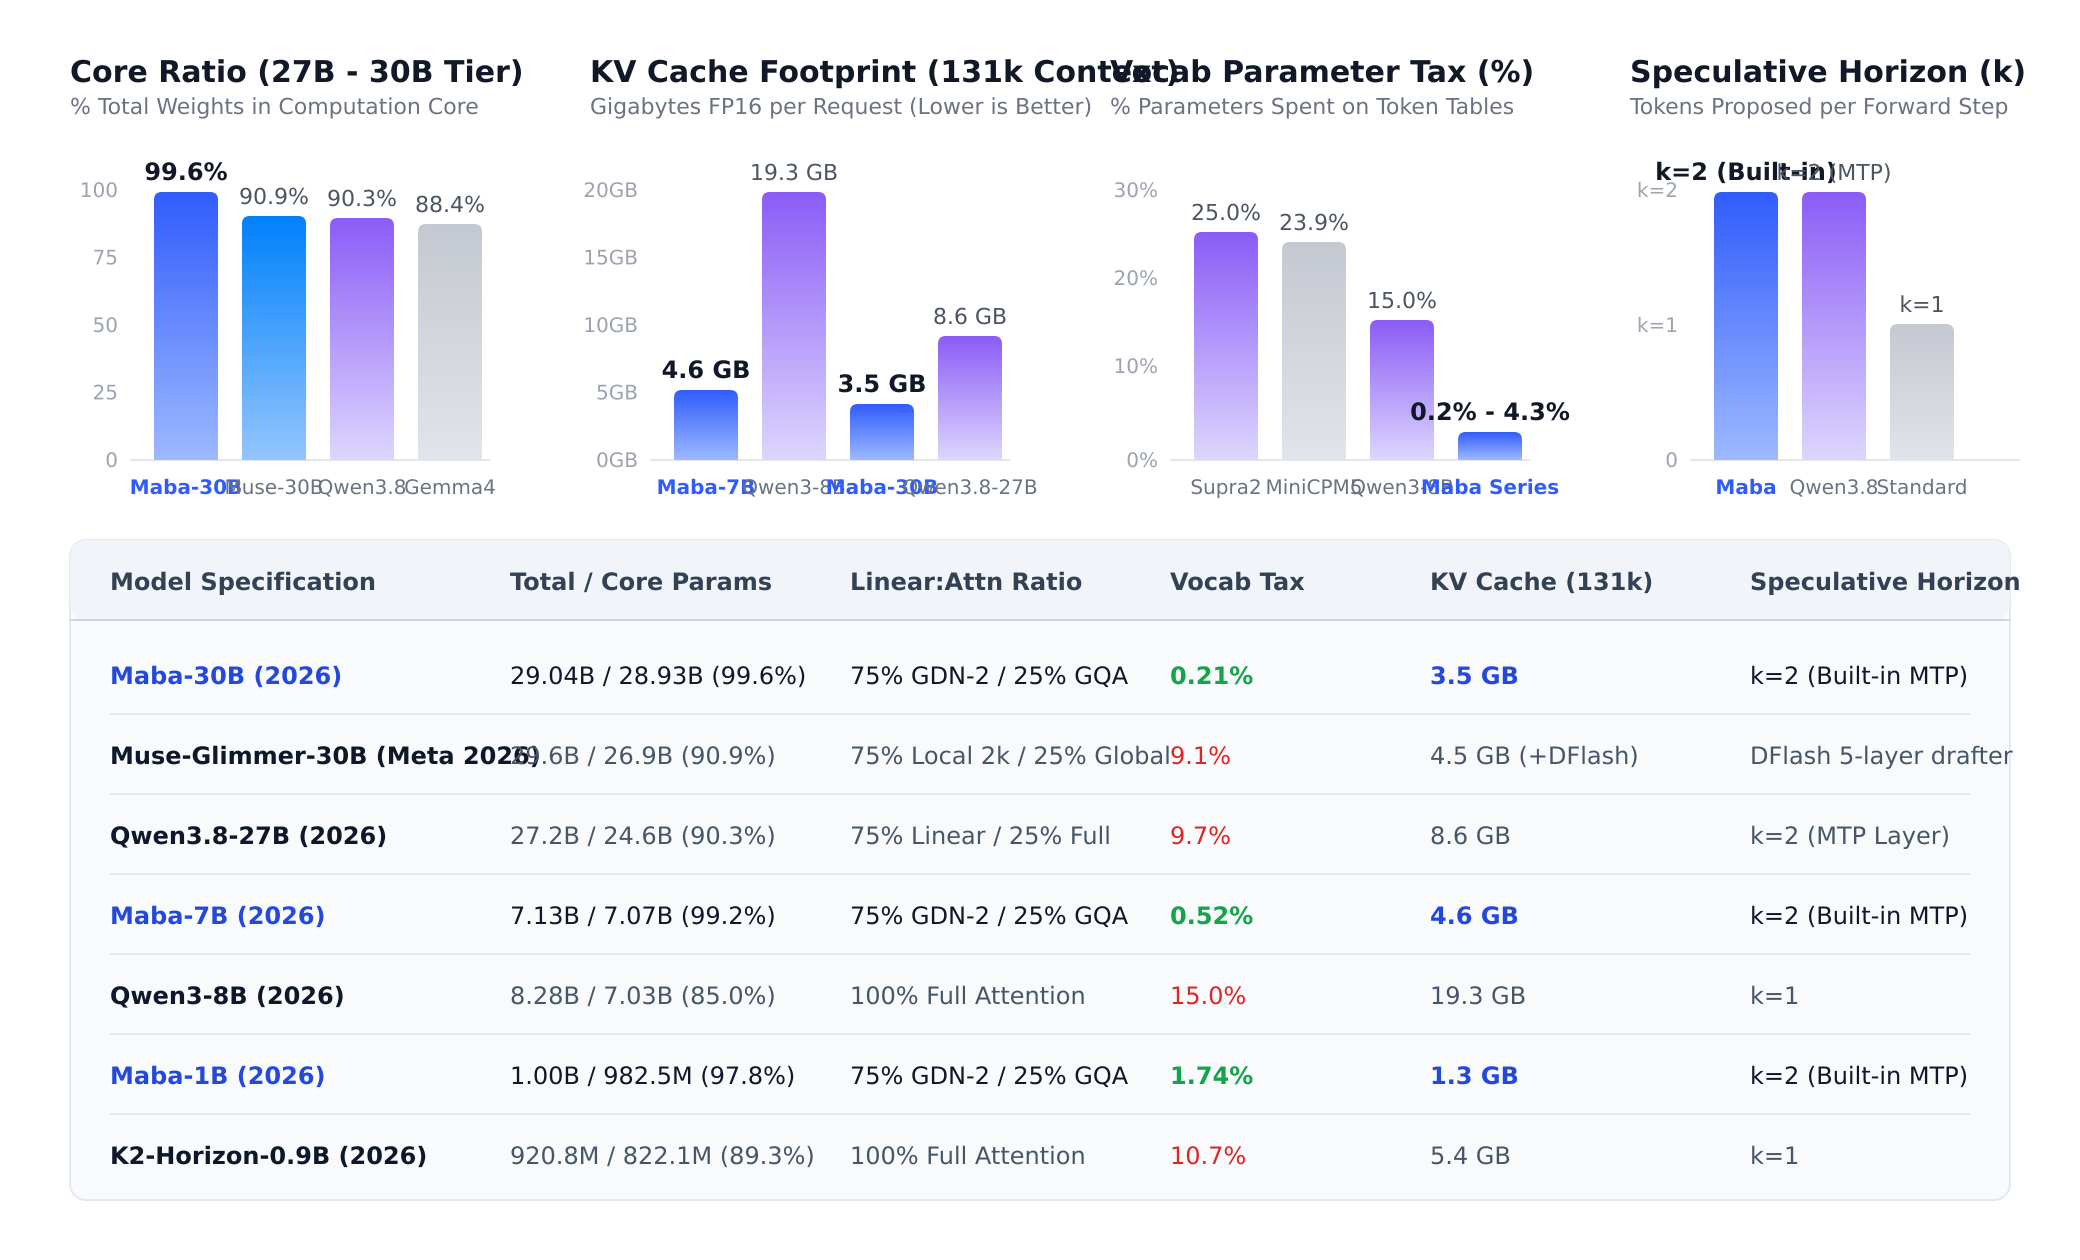
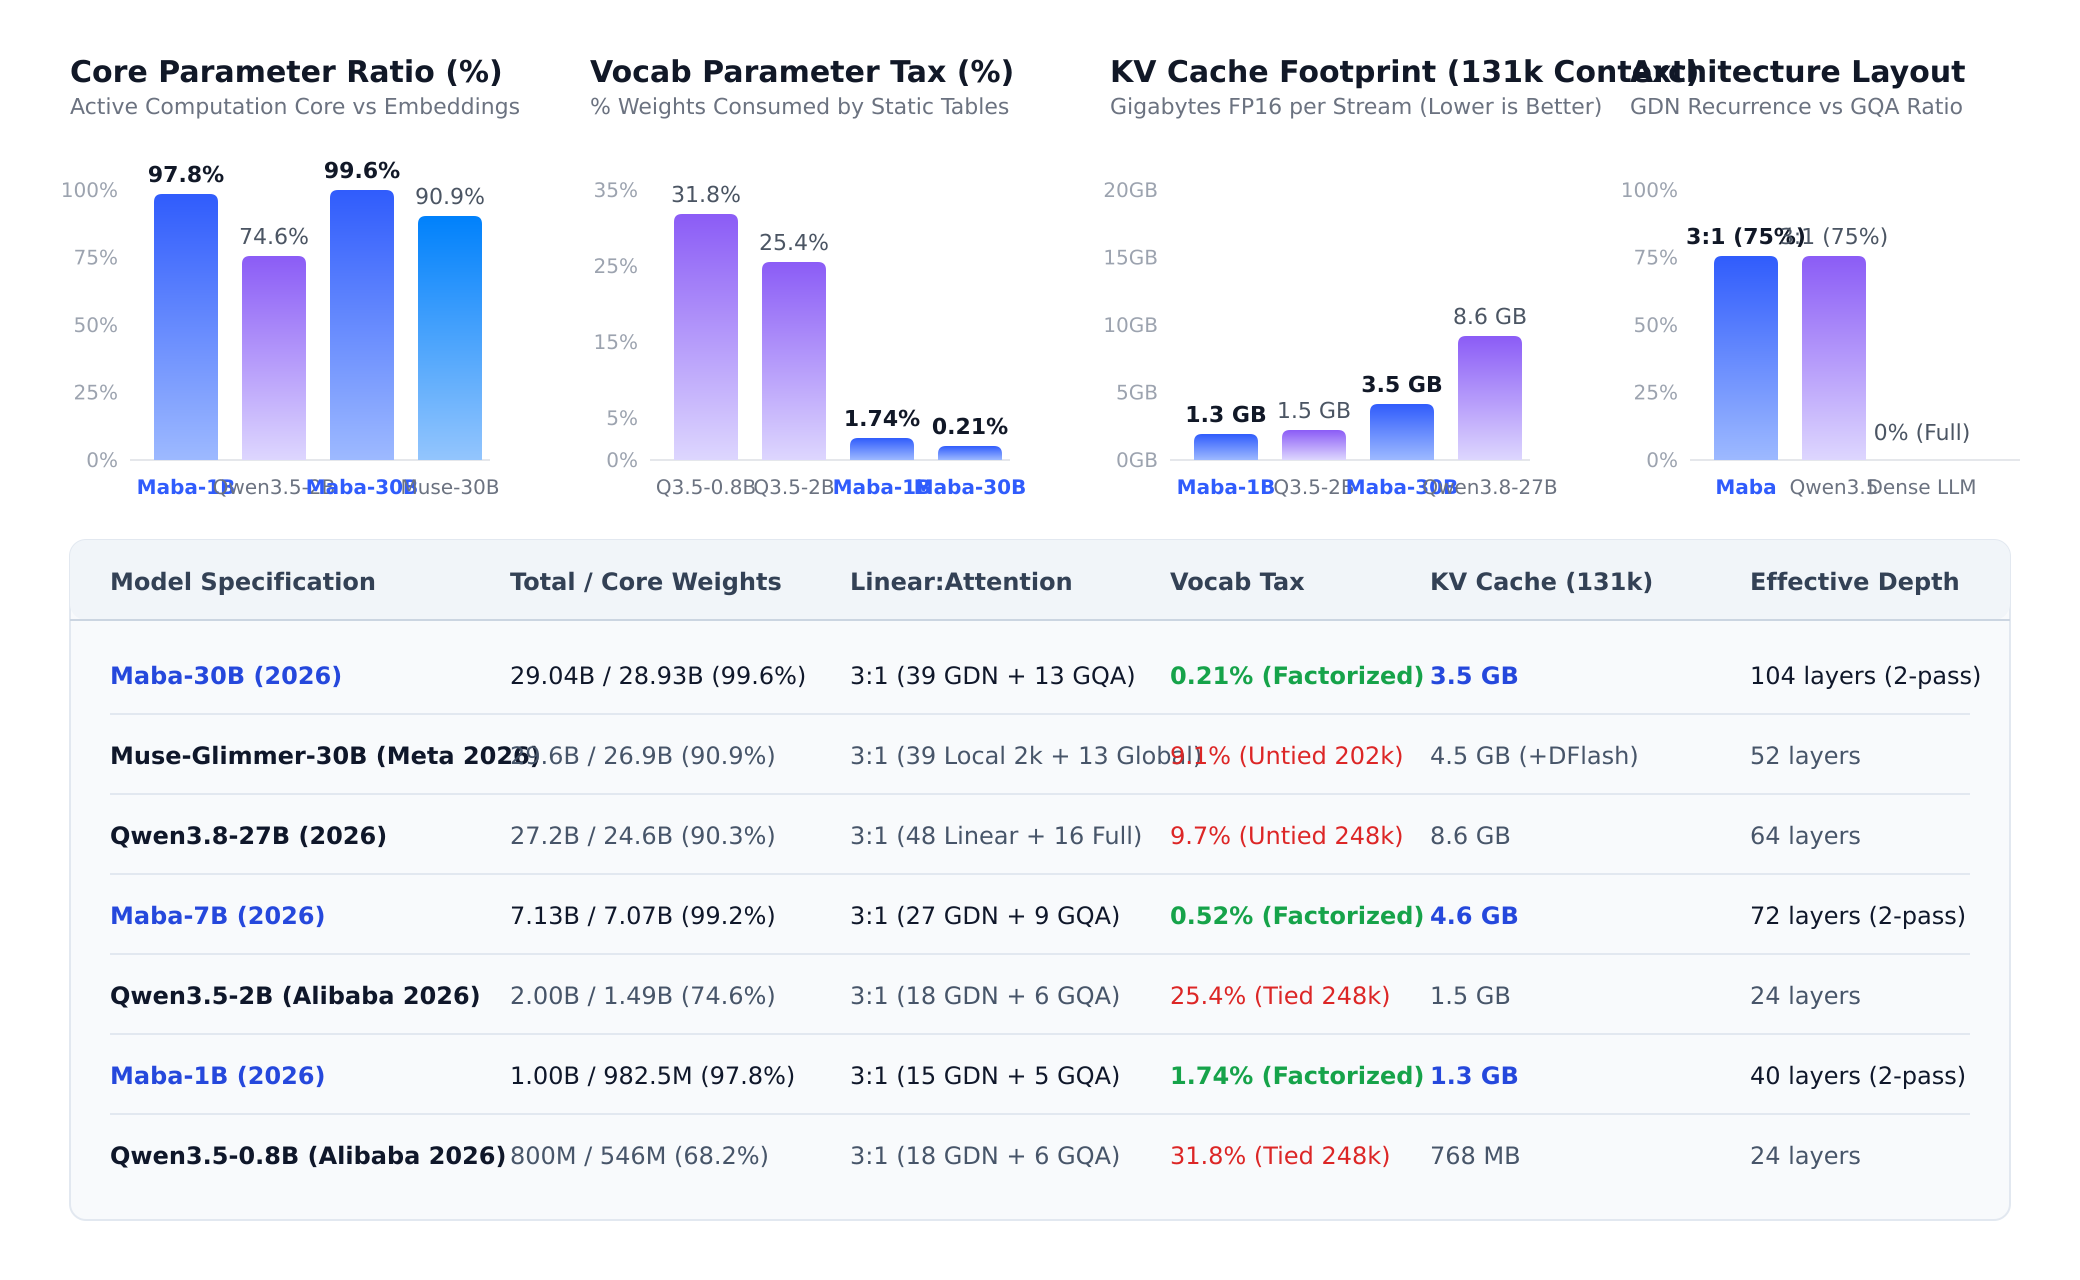
Incorporate Qwen3.5 convergence benchmarks, vocab tax contrast, and update scaling comparison chart

diff --git a/SCALING.md b/SCALING.md
@@ -1,6 +1,6 @@
 # Maba Architecture: Scaling and 2026 Architectural Comparison
 
-Technical specification and architectural comparison for scaling the Maba architecture from 100M to 1B, 3B, 7B, and 30B parameters against 2026 frontier and edge architectures.
+Technical specification and architectural comparison for scaling the Maba architecture from 100M to 1B, 3B, 7B, and 30B parameters against 2026 frontier and edge architectures (Qwen3.5, Muse-Glimmer-30B, Gemma4).
 
 ---
 
@@ -36,74 +36,53 @@ Technical specification and architectural comparison for scaling the Maba archit
 
 ## 3. Comparison Against 2026 Architectures
 
+### Architectural Convergence: Maba vs Qwen3.5 Series (Alibaba 2026)
+
+Both Maba and the Qwen3.5 foundation series converged on the identical 3:1 macro layout:
+`3 x (Gated DeltaNet -> SwiGLU) -> 1 x (GQA Attention -> SwiGLU)`.
+
+The decisive divergence lies in embedding topology and parameter allocation:
+
+| Feature | Maba-1B (2026) | Qwen3.5-0.8B (2026) | Qwen3.5-2B (2026) | Maba-3B (2026) | Qwen3.5-4B (2026) |
+| :--- | :--- | :--- | :--- | :--- | :--- |
+| **Backbone** | GDN-2 + GQA (3:1) | GDN + Attention (3:1) | GDN + Attention (3:1) | GDN-2 + GQA (3:1) | GDN + Attention (3:1) |
+| **Total Parameters** | 1,004.7M (1.00B) | 800.0M (0.80B) | 2,000.0M (2.00B) | 2,977.2M (2.98B) | 4,000.0M (4.00B) |
+| **Core Parameters** | 982.5M (97.79%) | 545.7M (68.21%) | 1,491.4M (74.57%) | 2,941.3M (98.80%) | 3,364.3M (84.11%) |
+| **Embedding Parameters** | 17.5M (Rank 256) | 254.3M (Monolithic) | 508.6M (Monolithic) | 26.8M (Rank 384) | 635.7M (Monolithic) |
+| **Vocab Parameter Tax** | **1.74%** | **31.79%** | **25.43%** | **0.90%** | **15.89%** |
+| **Vocabulary Size** | 64,256 | 248,320 | 248,320 | 64,256 | 248,320 |
+| **Physical Layers** | 20 (15 GDN + 5 GQA) | 24 (18 GDN + 6 GQA) | 24 (18 GDN + 6 GQA) | 32 (24 GDN + 8 GQA) | 32 (24 GDN + 8 GQA) |
+| **Effective Depth** | 40 layers (2-pass) | 24 layers | 24 layers | 64 layers (2-pass) | 32 layers |
+| **KV Cache (131k FP16)** | **1,280.0 MB** | 768.0 MB | 1,536.0 MB | **2,048.0 MB** | 4,096.0 MB |
+| **Speculative Decoding** | Built-in MTP (k=2) | Built-in MTP | Built-in MTP | Built-in MTP (k=2) | Built-in MTP |
+
 ### Agentic Tier (27B - 31B)
 
 | Feature | Maba-30B (2026) | Muse-Glimmer-30B (Meta 2026) | Qwen3.8-27B (2026) | Gemma4-31B (Google 2026) |
 | :--- | :--- | :--- | :--- | :--- |
-| **Backbone Architecture** | GDN-2 Linear Recurrence + GQA | Dense Transformer + Local Window | Linear Attention + Full Attention | Dense Transformer |
+| **Backbone Architecture** | GDN-2 Recurrence + GQA | Dense Transformer + Local Window | Linear Attention + Full Attention | Dense Transformer |
 | **Total Parameters** | 29.04B | 29.6B (incl. 1.8B ViT-G) | 27.2B | 30.7B |
-| **Core Computation Parameters** | 28.93B (99.62%) | 26.9B (90.9%) | 24.6B (90.3%) | 27.1B (88.4%) |
-| **Vocab Parameter Tax** | 0.21% (Rank-768 Factorized) | 9.1% (Untied 202k Vocab) | 9.7% (Untied 248k Vocab) | 11.6% (Direct 256k Vocab) |
+| **Core Computation Parameters** | 28.93B (99.62%) | 26.9B (90.88%) | 24.6B (90.30%) | 27.1B (88.35%) |
+| **Vocab Parameter Tax** | 0.21% (Rank 768) | 9.12% (Untied 202k) | 9.70% (Untied 248k) | 11.65% (Direct 256k) |
 | **Layer Mixture** | 75% GDN-2 + 25% GQA | 75% Local Window (2k) + 25% Global | 75% Linear Attn + 25% Full Attn | 100% Full Attention |
 | **Attention Layers With State Growth** | 13 layers (25%) | 13 global + 39 local window | 16 layers (25%) | 54 layers (100%) |
 | **KV Cache Footprint (131k FP16)** | 3.5 GB | 4.5 GB (1.8 GB + 2.7 GB drafter) | 8.6 GB | 28.3 GB |
-| **Speculative Decoding Mechanism** | Built-in MTP (k=2, 0 extra VRAM) | DFlash block-diffusion (5-layer companion) | MTP auxiliary layer (k=2) | None / external drafter |
+| **Speculative Decoding Mechanism** | Built-in MTP (k=2, 0 extra VRAM) | DFlash block-diffusion (5-layer companion) | MTP auxiliary layer (k=2) | External drafter / k=1 |
 | **Effective Layer Depth** | 104 layers (2-pass block) | 52 layers | 64 layers | 54 layers |
 
-### Mid Tier (7B - 8B)
+### Mid Tier (7B - 9B)
 
-| Feature | Maba-7B (2026) | Qwen3-8B (2026) | IFM/K2-Horizon-7B (2026) |
-| :--- | :--- | :--- | :--- |
-| **Backbone Architecture** | GDN-2 Linear Recurrence + GQA | Qwen3 Dense Transformer | Dense Transformer |
-| **Total Parameters** | 7,127.9M (7.13B) | 8,280.4M (8.28B) | 7,974.7M (7.97B) |
-| **Core Computation Parameters** | 7,071.9M (99.21%) | 7,035.8M (84.97%) | 6,948.1M (87.13%) |
-| **Vocab Parameter Tax** | 0.52% (Rank-512 Factorized) | 15.03% (Untied 152k Vocab) | 12.87% (Tied 250k Vocab) |
-| **Layer Mixture** | 75% GDN-2 + 25% GQA | 100% Full Attention | 100% Full Attention |
-| **KV Cache Layers** | 9 layers (25%) | 36 layers (100%) | 36 layers (100%) |
-| **KV Cache Footprint (131k FP16)** | 4,608.0 MB (4.6 GB) | 19,327.4 MB (19.3 GB) | 18,432.0 MB (18.4 GB) |
-| **KV Cache Reduction vs Competitor** | Reference | -76.2% memory vs Qwen3-8B | -75.0% memory vs K2-Horizon-7B |
-| **Speculative Decoding** | Built-in MTP (k=2) | k=1 | k=1 |
-| **Effective Layer Depth** | 72 layers | 36 layers | 36 layers |
-
-### Edge Tier (1.7B - 4B)
-
-| Feature | Maba-3B (2026) | openbmb/MiniCPM5-2B (2026) | XHToken/Spark-X2.5-4B (2026) |
-| :--- | :--- | :--- | :--- |
-| **Backbone Architecture** | GDN-2 Linear Recurrence + GQA | Dense Transformer | Spark Transformer |
-| **Total Parameters** | 2,977.2M (2.98B) | 2,246.5M (2.25B) | 3,758.1M (3.76B) |
-| **Core Computation Parameters** | 2,941.3M (98.80%) | 1,979.4M (88.11%) | 3,422.5M (91.07%) |
-| **Vocab Parameter Tax** | 0.90% (Rank-384 Factorized) | 11.89% (130k Vocab) | 8.93% (131k Vocab) |
-| **KV Cache Layers** | 8 layers (25%) | 42 layers (100%) | 36 layers (100%) |
-| **KV Cache Footprint (131k FP16)** | 2,048.0 MB (2.0 GB) | 5,376.0 MB (5.4 GB) | 11,520.0 MB (11.5 GB) |
-| **KV Cache Reduction** | Reference | -61.9% memory vs MiniCPM5-2B | -82.2% memory vs Spark-4B |
-| **Speculative Decoding** | Built-in MTP (k=2) | k=1 | k=1 |
-| **Effective Layer Depth** | 64 layers | 42 layers | 36 layers |
-
-### Compact Tier (0.8B - 1B)
-
-| Feature | Maba-1B (2026) | IFM/K2-Horizon-0.9B (2026) | openbmb/MiniCPM5-1B (2026) |
-| :--- | :--- | :--- | :--- |
-| **Backbone Architecture** | GDN-2 Linear Recurrence + GQA | Dense Transformer | Dense Transformer |
-| **Total Parameters** | 1,004.7M (1.00B) | 920.8M (0.92B) | 840.4M (0.84B) |
-| **Core Computation Parameters** | 982.5M (97.79%) | 822.1M (89.28%) | 639.8M (76.13%) |
-| **Vocab Parameter Tax** | 1.74% (Rank-256 Factorized) | 10.72% (64k Vocab) | 23.87% (130k Vocab) |
-| **KV Cache Layers** | 5 layers (25%) | 28 layers (100%) | 24 layers (100%) |
-| **KV Cache Footprint (131k FP16)** | 1,280.0 MB (1.3 GB) | 5,376.0 MB (5.4 GB) | 2,304.0 MB (2.3 GB) |
-| **KV Cache Reduction** | Reference | -76.2% memory vs K2-Horizon-0.9B | -44.4% memory vs MiniCPM5-1B |
-| **Speculative Decoding** | Built-in MTP (k=2) | k=1 | k=1 |
-| **Effective Layer Depth** | 40 layers | 28 layers | 24 layers |
-
-### Sub-150M Tier
-
-| Feature | Maba-100M (2026) | Supra2-100M (2026) | SmolLM2-135M | MobileLLM-125M |
+| Feature | Maba-7B (2026) | Qwen3.5-9B (2026) | Qwen3-8B (2026) | IFM/K2-Horizon-7B (2026) |
 | :--- | :--- | :--- | :--- | :--- |
-| **Backbone** | Maba (GDN-2 + GQA) | Qwen3 (Transformer) | Transformer | Transformer |
-| **Total Parameters** | 101.18M | 100.68M | 135.0M | 125.0M |
-| **Core Parameters** | 96.33M (95.21%) | 75.52M (75.01%) | 106.7M (79.04%) | 106.6M (85.28%) |
-| **Vocab Tax** | 4.31% | 24.99% | 20.96% | 14.72% |
-| **KV Cache Layers** | 5 layers (25%) | 12 layers (100%) | 30 layers (100%) | 30 layers (100%) |
-| **Effective Depth** | 40 layers | 12 layers | 30 layers | 30 layers |
-| **Speculative Horizon** | k=2 (Built-in MTP) | k=1 | k=1 | k=1 |
+| **Backbone Architecture** | GDN-2 Recurrence + GQA | GDN + GQA Hybrid (3:1) | Dense Transformer | Dense Transformer |
+| **Total Parameters** | 7,127.9M (7.13B) | 8,800.0M (8.80B) | 8,280.4M (8.28B) | 7,974.7M (7.97B) |
+| **Core Computation Parameters** | 7,071.9M (99.21%) | 7,782.9M (88.44%) | 7,035.8M (84.97%) | 6,948.1M (87.13%) |
+| **Vocab Parameter Tax** | 0.52% (Rank 512) | 11.56% (248k Vocab) | 15.03% (Untied 152k Vocab) | 12.87% (Tied 250k Vocab) |
+| **Layer Mixture** | 75% GDN-2 + 25% GQA | 75% GDN + 25% GQA | 100% Full Attention | 100% Full Attention |
+| **KV Cache Layers** | 9 layers (25%) | 8 layers (25%) | 36 layers (100%) | 36 layers (100%) |
+| **KV Cache Footprint (131k FP16)** | 4,608.0 MB (4.6 GB) | 4,096.0 MB (4.1 GB) | 19,327.4 MB (19.3 GB) | 18,432.0 MB (18.4 GB) |
+| **Speculative Decoding** | Built-in MTP (k=2) | Built-in MTP | k=1 | k=1 |
+| **Effective Layer Depth** | 72 layers | 32 layers | 36 layers | 36 layers |
 
 ---
 
@@ -129,6 +108,7 @@ $$\mathrm{KV~Cache~Memory} = 4 \times N_{\mathrm{gqa}} \times n_{\mathrm{kv}} \t
 | 3B Tier | MiniCPM5-2B | 1,344.0 MB | 2,688.0 MB | 5,376.0 MB (5.4 GB) | -61.9% |
 | 3B Tier | Spark-X2.5-4B | 2,880.0 MB | 5,760.0 MB | 11,520.0 MB (11.5 GB) | -82.2% |
 | **1B Tier** | **Maba-1B** | **320.0 MB** | **640.0 MB** | **1,280.0 MB (1.3 GB)** | **Reference** |
+| 1B Tier | Qwen3.5-2B | 384.0 MB | 768.0 MB | 1,536.0 MB (1.5 GB) | -16.7% |
 | 1B Tier | MiniCPM5-1B | 576.0 MB | 1,152.0 MB | 2,304.0 MB (2.3 GB) | -44.4% |
 | 1B Tier | K2-Horizon-0.9B | 1,344.0 MB | 2,688.0 MB | 5,376.0 MB (5.4 GB) | -76.2% |
 

diff --git a/README.md b/README.md
@@ -47,7 +47,7 @@
 | **Speculative Horizon** | k=2 (native MTP) | k=1 | k=1 | k=1 |
 | **Native C++ Engine** | Included | None | None | None |
 
-Detailed multi-scale benchmarks (1B, 3B, 7B) against 2026 architectures are provided in [SCALING.md](SCALING.md).
+Detailed multi-scale benchmarks (1B, 3B, 7B, 30B) against 2026 architectures (Qwen3.5, Muse-Glimmer-30B, Gemma4) are provided in [SCALING.md](SCALING.md).
 
 ---
 
